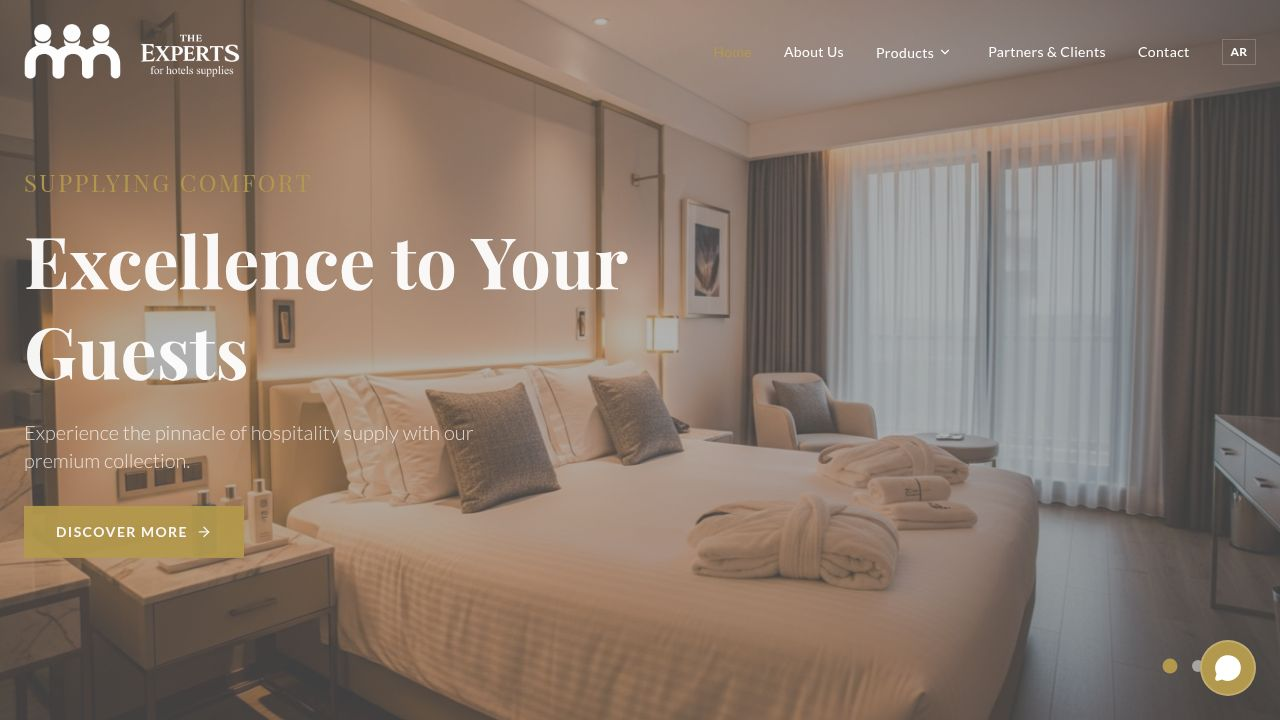
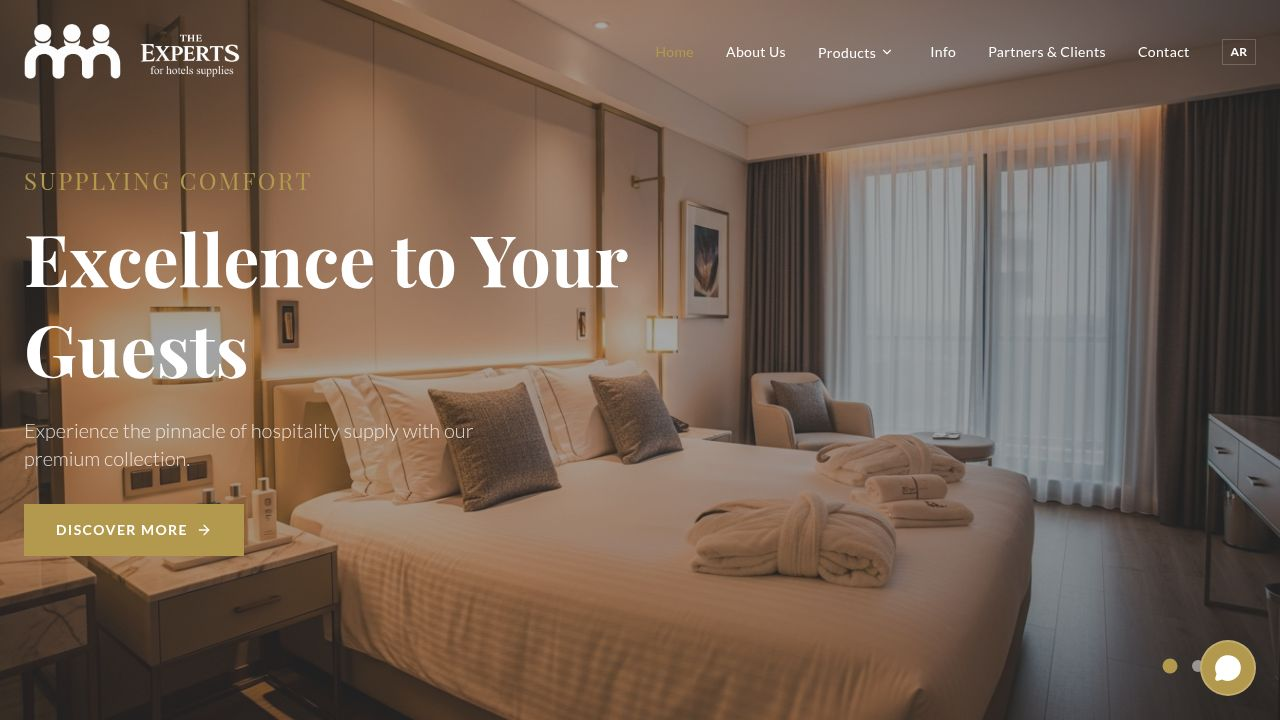
Add an informational page to the website with editable content
Introduces a new '/info' page with dynamic content managed via translations and admin panel. Updates routing in `App.tsx`, navigation in `Navbar.tsx`, and seed data in `server/seed.ts`.

Replit-Commit-Author: Agent
Replit-Commit-Session-Id: 658373c2-5919-4f5b-b04d-431f1ef9d610
Replit-Commit-Checkpoint-Type: full_checkpoint
Replit-Commit-Event-Id: e526a28b-1bb8-41d1-8f5f-07389fc7e563
Replit-Commit-Screenshot-Url: https://storage.googleapis.com/screenshot-production-us-central1/e24cf016-21c9-4399-a654-3af271d57383/658373c2-5919-4f5b-b04d-431f1ef9d610/51n0wGg
Replit-Helium-Checkpoint-Created: true

diff --git a/client/src/pages/Info.tsx b/client/src/pages/Info.tsx
@@ -1,0 +1,51 @@
+import { Layout } from "@/components/layout/Layout";
+import { motion } from "framer-motion";
+import { useLanguage } from "@/context/LanguageContext";
+import { useSiteImages } from "@/hooks/useSiteImages";
+import imgBannerFallback from "@/assets/hero-2.jpg";
+
+export default function Info() {
+  const { t } = useLanguage();
+  const { getImage } = useSiteImages();
+
+  const imgBanner = getImage("info_banner", imgBannerFallback);
+
+  return (
+    <Layout>
+      <div className="relative h-[40vh] md:h-[50vh] flex items-center justify-center overflow-hidden pt-16">
+        <div
+          className="absolute inset-0 bg-cover bg-center"
+          style={{ backgroundImage: `url(${imgBanner})` }}
+        />
+        <div className="absolute inset-0 bg-black/40" />
+        <div className="container mx-auto px-6 text-center relative z-10">
+          <motion.h1
+            initial={{ opacity: 0, y: 20 }}
+            animate={{ opacity: 1, y: 0 }}
+            className="text-5xl md:text-7xl font-serif font-bold mb-6 text-white"
+          >
+            {t("info_title") || "Info"}
+          </motion.h1>
+          <p className="max-w-2xl mx-auto text-white/80">
+            {t("info_subtitle") || ""}
+          </p>
+        </div>
+      </div>
+
+      <section className="py-20 bg-white">
+        <div className="container mx-auto px-6">
+          <motion.div
+            initial={{ opacity: 0, y: 20 }}
+            whileInView={{ opacity: 1, y: 0 }}
+            viewport={{ once: true }}
+            className="max-w-4xl mx-auto"
+          >
+            <div className="prose prose-lg max-w-none text-neutral-700 leading-relaxed whitespace-pre-line">
+              {t("info_content") || ""}
+            </div>
+          </motion.div>
+        </div>
+      </section>
+    </Layout>
+  );
+}

diff --git a/server/seed.ts b/server/seed.ts
@@ -38,6 +38,10 @@ const defaultTranslations: Record<string, { en: string; ar: string }> = {
   stat_clients: { en: "Clients", ar: "عميل" },
   footer_desc: { en: "Supplying comfort and quality to your guests. Premium hospitality products across the Middle East.", ar: "توريد الراحة والجودة لضيوفك. منتجات ضيافة متميزة في جميع أنحاء الشرق الأوسط." },
   footer_text: { en: "", ar: "" },
+  info: { en: "Info", ar: "معلومات" },
+  info_title: { en: "Info", ar: "معلومات" },
+  info_subtitle: { en: "Learn more about our services and offerings", ar: "تعرف على المزيد حول خدماتنا وعروضنا" },
+  info_content: { en: "Welcome to The Experts. We are dedicated to providing the finest hospitality supplies across the Middle East.", ar: "مرحبًا بكم في ذا إكسبرتس. نحن ملتزمون بتقديم أفضل مستلزمات الضيافة في جميع أنحاء الشرق الأوسط." },
   quick_links: { en: "Quick Links", ar: "روابط سريعة" },
   categories: { en: "Categories", ar: "الأقسام" },
   contact_us: { en: "Contact Us", ar: "اتصل بنا" },

diff --git a/client/src/App.tsx b/client/src/App.tsx
@@ -11,6 +11,7 @@ import Categories from "@/pages/Categories";
 import Contact from "@/pages/Contact";
 import Partners from "@/pages/Partners";
 import CategoryDetail from "@/pages/CategoryDetail";
+import Info from "@/pages/Info";
 import NotFound from "@/pages/not-found";
 import AdminLogin from "@/pages/admin/AdminLogin";
 import AdminDashboard from "@/pages/admin/AdminDashboard";
@@ -29,6 +30,7 @@ function Router() {
       <Route path="/" component={Home} />
       <Route path="/about-us" component={About} />
       <Route path="/categories" component={Categories} />
+      <Route path="/info" component={Info} />
       <Route path="/partners" component={Partners} />
       <Route path="/contact" component={Contact} />
       <Route path="/admin/login">{() => <AdminWrapper component={AdminLogin} />}</Route>

diff --git a/client/src/components/layout/Navbar.tsx b/client/src/components/layout/Navbar.tsx
@@ -62,6 +62,7 @@ export function Navbar() {
       isDropdown: true,
       subLinks: categorySubLinks,
     },
+    { name: t("info"), href: "/info" },
     { name: t("partners"), href: "/partners" },
     { name: t("contact"), href: "/contact" },
   ];
